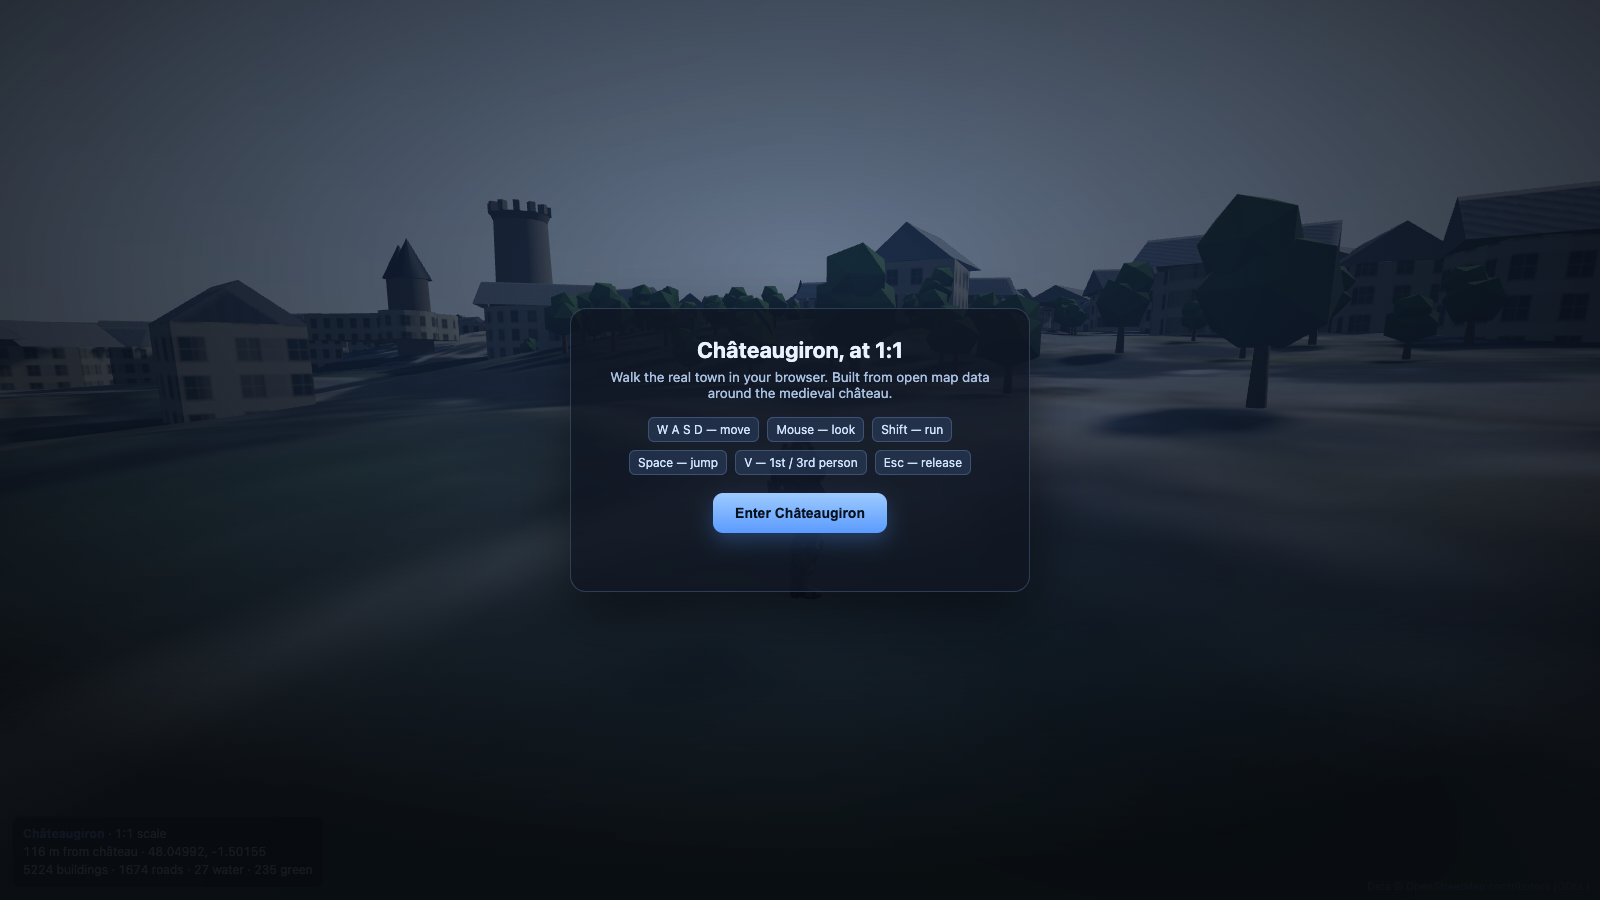
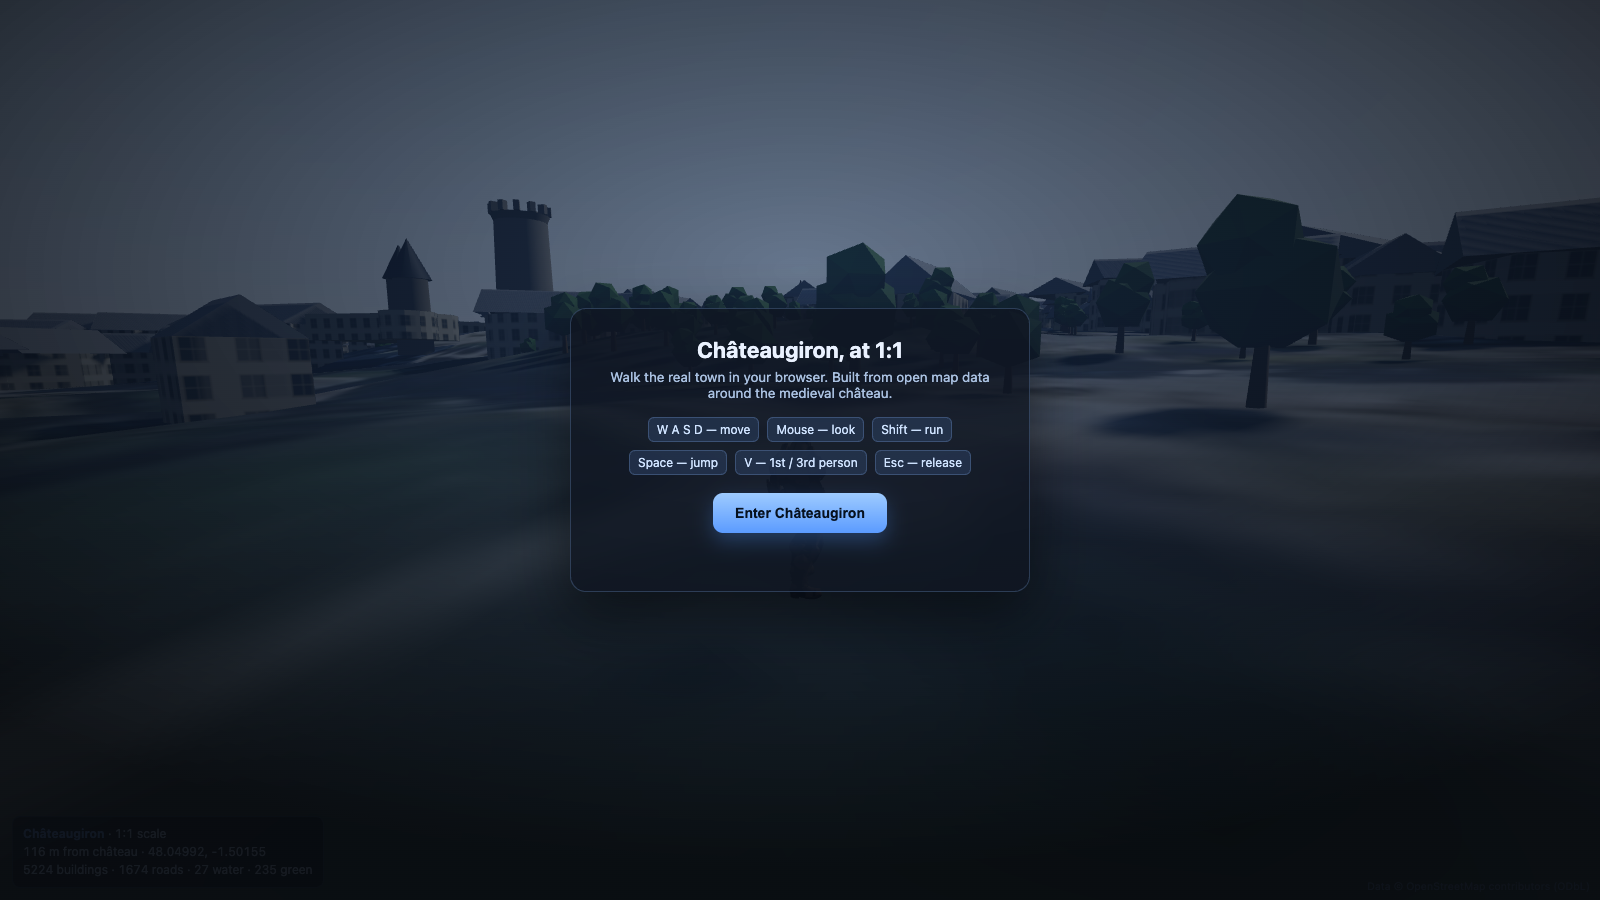
Vary building heights deterministically for a realistic skyline
Untagged buildings, which are most of the town, were all a flat 7.5 m slab. Now
they get a plausible storey count from their footprint area plus a stable per
building random value, so the skyline undulates like a real town. Real height and
building:levels tags still win when present.

Add polygonArea (shoelace) and hash01 + storeysForFootprint pure helpers, all at
100% coverage. Verified headless: varied roof heights across the old town.

diff --git a/src/lib/osm.test.js b/src/lib/osm.test.js
@@ -1,5 +1,13 @@
 import { describe, it, expect } from 'vitest';
-import { parseMeters, buildingHeight, baseHeight, classify, trimTags } from './osm.js';
+import {
+  parseMeters,
+  buildingHeight,
+  baseHeight,
+  classify,
+  trimTags,
+  hash01,
+  storeysForFootprint,
+} from './osm.js';
 
 describe('parseMeters', () => {
   it('returns null for nullish input', () => {
@@ -33,6 +41,41 @@ describe('buildingHeight', () => {
   });
   it('enforces a minimum height', () => {
     expect(buildingHeight({ height: '1' })).toBe(2.5);
+  });
+  it('estimates a height from footprint area when untagged', () => {
+    const h = buildingHeight({}, 100, 3);
+    expect(h).toBeGreaterThan(2.5);
+    expect(h).toBeLessThan(15);
+    // deterministic for a given seed
+    expect(buildingHeight({}, 100, 3)).toBe(h);
+  });
+});
+
+describe('hash01', () => {
+  it('returns a stable value in [0, 1)', () => {
+    const v = hash01(7);
+    expect(v).toBeGreaterThanOrEqual(0);
+    expect(v).toBeLessThan(1);
+    expect(hash01(7)).toBe(v);
+  });
+});
+
+describe('storeysForFootprint', () => {
+  it('gives one storey to tiny footprints', () => {
+    expect(storeysForFootprint(20, 0.1)).toBe(1);
+  });
+  it('spreads small houses between one and two storeys', () => {
+    expect(storeysForFootprint(100, 0.5)).toBe(2);
+    expect(storeysForFootprint(100, 0.9)).toBe(1);
+  });
+  it('spreads medium footprints between two and three storeys', () => {
+    expect(storeysForFootprint(200, 0.4)).toBe(2);
+    expect(storeysForFootprint(200, 0.9)).toBe(3);
+  });
+  it('spreads large blocks across three, two, and four storeys', () => {
+    expect(storeysForFootprint(500, 0.3)).toBe(3);
+    expect(storeysForFootprint(500, 0.7)).toBe(2);
+    expect(storeysForFootprint(500, 0.9)).toBe(4);
   });
 });
 

diff --git a/src/lib/geometry.test.js b/src/lib/geometry.test.js
@@ -6,6 +6,7 @@ import {
   boundsOf,
   isOversized,
   buildRoadRibbon,
+  polygonArea,
   DEFAULT_ROAD_WIDTH,
   DEFAULT_ROAD_COLOR,
 } from './geometry.js';
@@ -140,5 +141,27 @@ describe('buildRoadRibbon', () => {
       0,
     );
     expect(out).toEqual([]);
+  });
+});
+
+describe('polygonArea', () => {
+  it('computes the area of a unit square', () => {
+    expect(
+      polygonArea([
+        [0, 0],
+        [2, 0],
+        [2, 2],
+        [0, 2],
+      ]),
+    ).toBe(4);
+  });
+  it('is sign independent of winding order', () => {
+    const ring = [
+      [0, 0],
+      [0, 3],
+      [3, 3],
+      [3, 0],
+    ];
+    expect(polygonArea(ring)).toBe(9);
   });
 });

diff --git a/src/lib/osm.js b/src/lib/osm.js
@@ -53,14 +53,34 @@ export function parseMeters(value) {
   return m ? parseFloat(m[0]) : null;
 }
 
-export function buildingHeight(tags) {
+export function buildingHeight(tags, area = null, seed = 0) {
   let h = parseMeters(tags.height);
   if (h == null) {
     const levels = parseFloat(tags['building:levels']);
     if (!Number.isNaN(levels)) h = levels * 3.1 + 0.6;
   }
+  if (h == null && area != null) {
+    const r = hash01(seed);
+    h = storeysForFootprint(area, r) * 3.0 + 0.4 + (r - 0.5) * 0.7;
+  }
   if (h == null) h = 7.5;
   return Math.max(2.5, h);
+}
+
+// Deterministic pseudo-random value in [0, 1) from an integer seed.
+export function hash01(seed) {
+  const x = Math.sin(seed * 127.1 + 311.7) * 43758.5453;
+  return x - Math.floor(x);
+}
+
+// Guess a plausible storey count from a footprint area (m^2). Real towns mix
+// one storey outbuildings, two storey houses, and taller blocks, so a stable
+// random value r spreads the choice instead of making every house identical.
+export function storeysForFootprint(area, r) {
+  if (area < 35) return 1;
+  if (area < 130) return r < 0.75 ? 2 : 1;
+  if (area < 350) return r < 0.55 ? 2 : 3;
+  return r < 0.5 ? 3 : r < 0.85 ? 2 : 4;
 }
 
 export function baseHeight(tags) {

diff --git a/src/lib/geometry.js b/src/lib/geometry.js
@@ -71,6 +71,18 @@ export function isOversized(bounds, limit = 350) {
   return bounds.maxX - bounds.minX > limit || bounds.maxZ - bounds.minZ > limit;
 }
 
+// Shoelace area of a closed ring in square metres. Points are [x, z].
+export function polygonArea(points) {
+  let a = 0;
+  const n = points.length;
+  for (let i = 0; i < n; i++) {
+    const [x1, z1] = points[i];
+    const [x2, z2] = points[(i + 1) % n];
+    a += x1 * z2 - x2 * z1;
+  }
+  return Math.abs(a) / 2;
+}
+
 // Turn a polyline into a flat triangle ribbon of a given width, at height y.
 // Returns a flat array of x, y, z triples ready for a BufferGeometry.
 export function buildRoadRibbon(points, width, y) {

diff --git a/src/render/world.js b/src/render/world.js
@@ -16,6 +16,7 @@ import {
   boundsOf,
   isOversized,
   normalizeRing,
+  polygonArea,
 } from '../lib/geometry.js';
 
 function ringToShape(pts) {
@@ -454,7 +455,7 @@ export function buildWorld(scene, data, proj, hf = null, options = {}) {
       const shape = ringToShape(pts);
       if (!shape) continue;
       const base = baseHeight(f.t);
-      const top = buildingHeight(f.t);
+      const top = buildingHeight(f.t, polygonArea(pts), bi);
       const embed = 1.5; // sink the base into the terrain so slopes leave no gap
       const depth = Math.max(1.5, top - base) + embed;
       let geo;